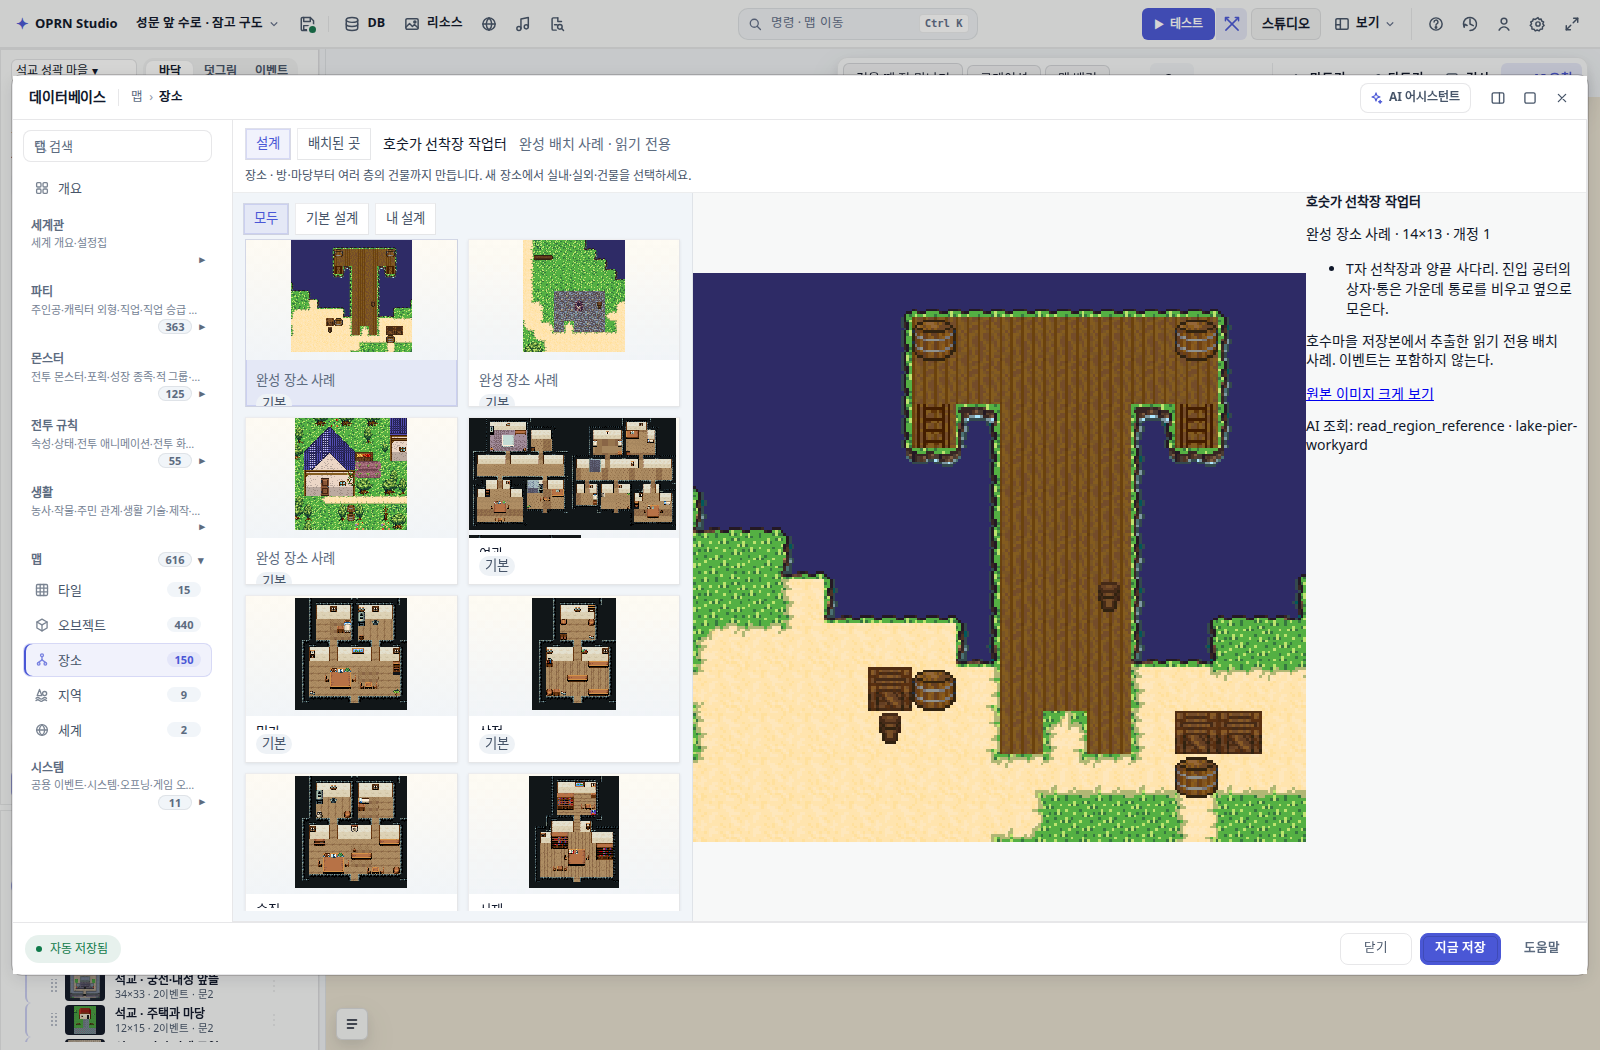
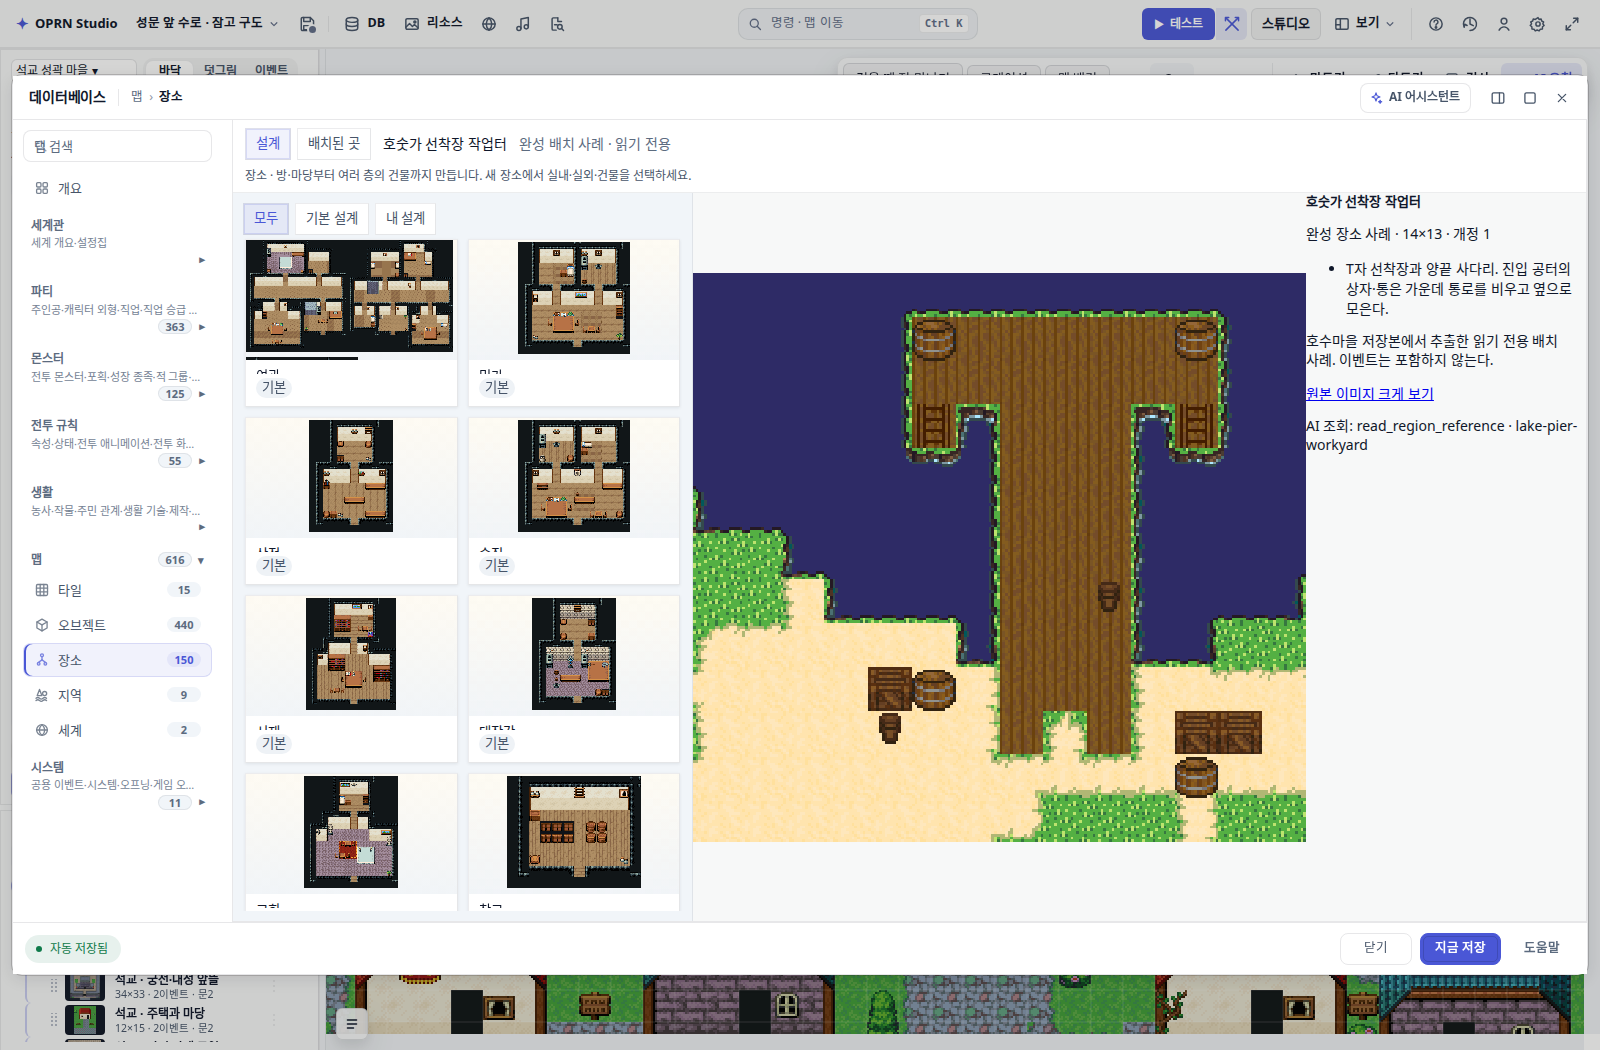
fix: retain default place selection when adding reference cards

diff --git a/src/editor/panels/spatialCatalogHierarchy.ts b/src/editor/panels/spatialCatalogHierarchy.ts
@@ -28,7 +28,7 @@ function placeCards(): SpatialGalleryCard[] {
     objectId: bundle.things[0]?.objectId,
     subtitle: bundle.facilities[0]?.label === bundle.label ? undefined : bundle.facilities[0]?.label,
   }));
-  cards.unshift(...PLACE_REFERENCES.map(entry => ({ id: `region-reference:${entry.id}`, localId: entry.id,
+  cards.push(...PLACE_REFERENCES.map(entry => ({ id: `region-reference:${entry.id}`, localId: entry.id,
     regionReferenceId: entry.id, name: entry.name, source: "default" as const, kind: "places" as const,
     usage: 0, tilesetId: entry.tilesetId, placeKind: "facility" as const, subtitle: "완성 장소 사례" })));
   const known = new Set(cards.map((card) => card.id));

diff --git a/test/databaseSidebarNav.test.ts b/test/databaseSidebarNav.test.ts
@@ -173,7 +173,7 @@ describe("database sidebar navigation", () => {
     expect(visible.map((node) => node.dataset.tab)).toEqual(["spatialRegions"]);
     expect(findByTestId(panelRoot, "db-tab-world-gen")).toBeNull();
     // 지역 탭 배지는 카탈로그 기본 설계 수 — 키워드 규칙 행은 세지 않는다.
-    expect(findTab(panelRoot, "db-tab-spatial-regions").dataset.count).toBe("7");
+    expect(findTab(panelRoot, "db-tab-spatial-regions").dataset.count).toBe("9");
   });
 
   // Break caught: the new navigation entry has no aggregate count or routed view.
